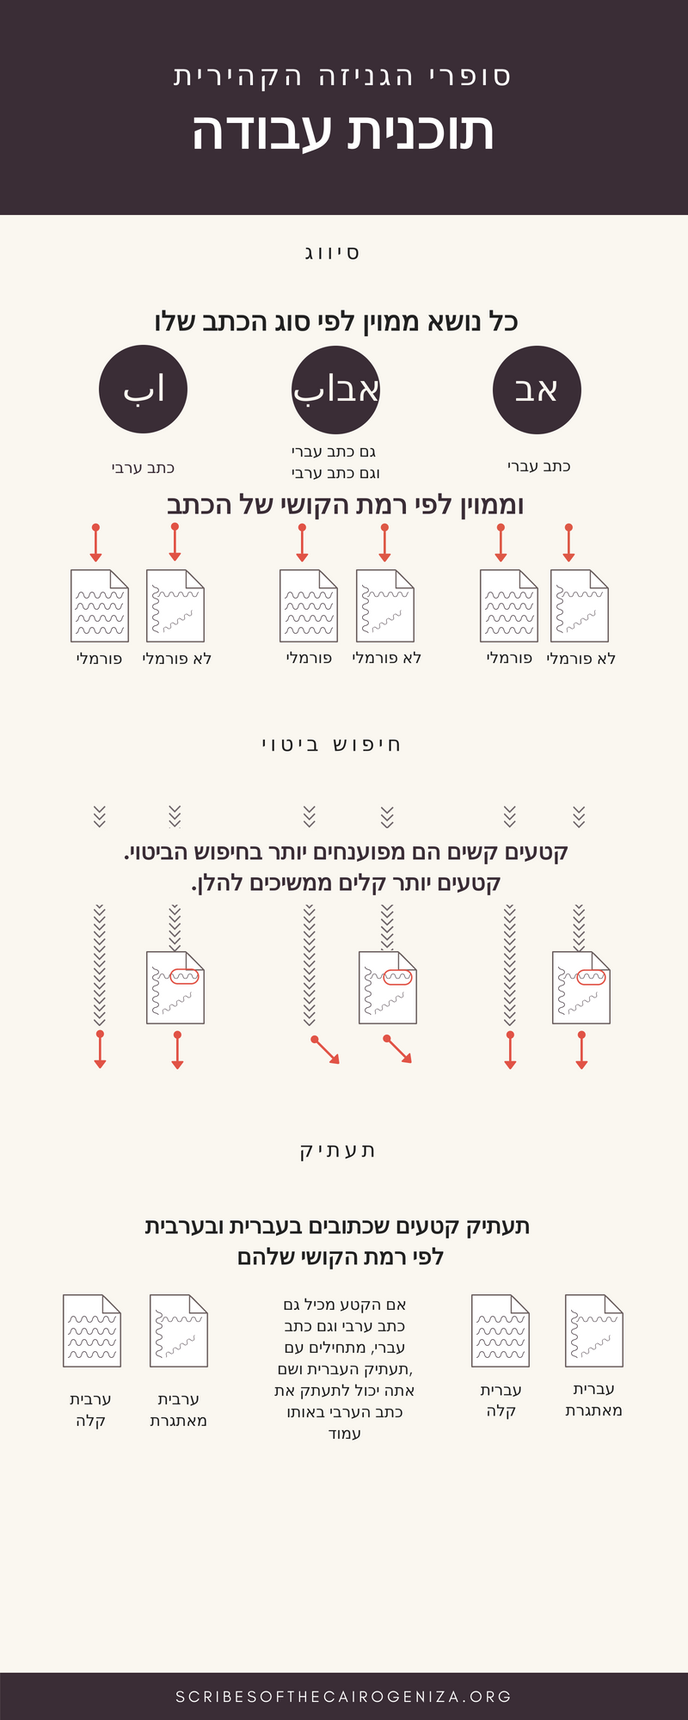
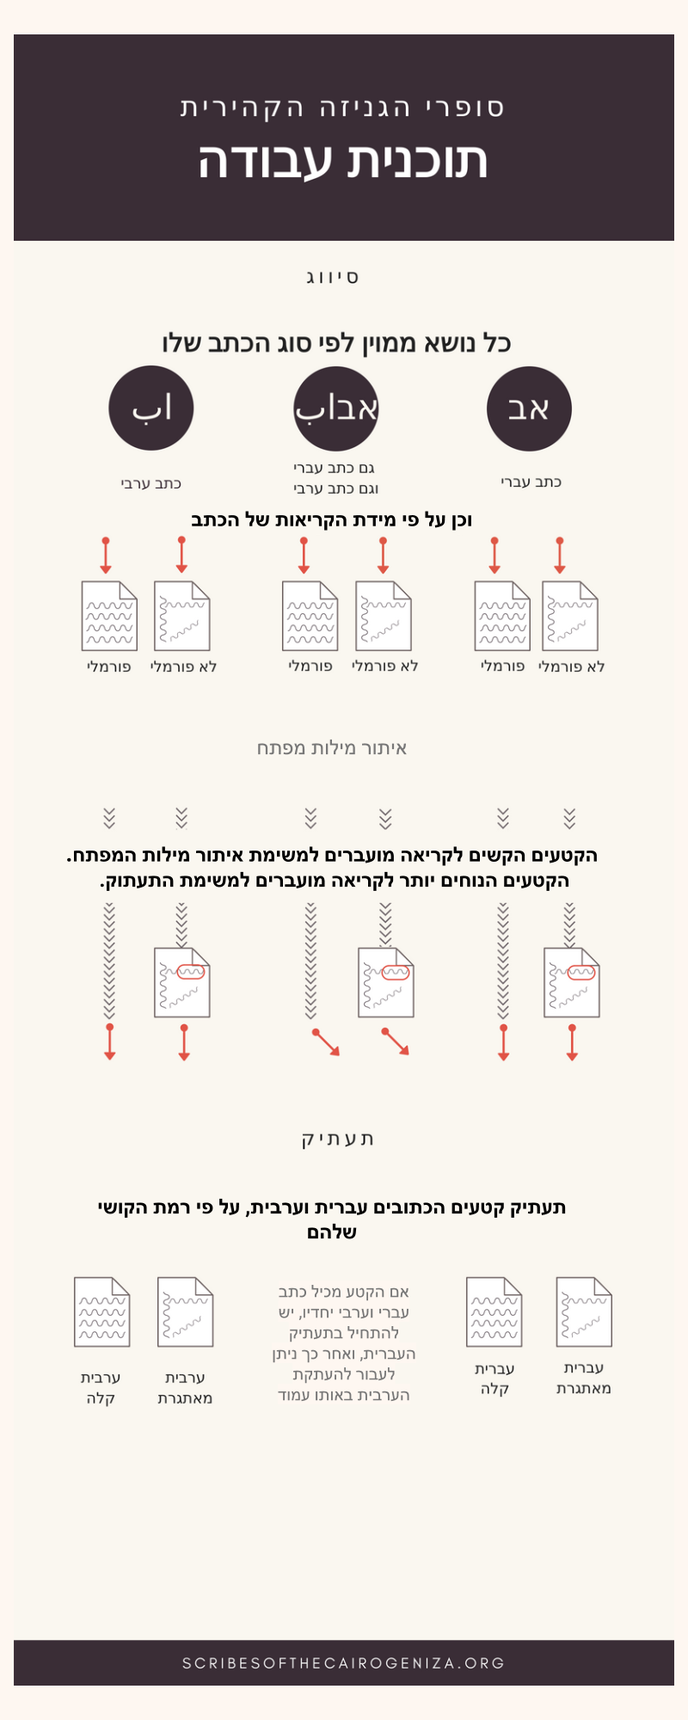
Final Hebrew Translations (#161)
* Update Hebrew Translations

* Replace Hebrew Workflow Image

* Add Bodleian as an Image Partner

* Fix Paragraph in Paragraph structure

diff --git a/src/locales/he.js b/src/locales/he.js
@@ -95,8 +95,8 @@ export default {
     scriptTypes: 'סוגי כתב עברי',
     yourSheet: 'מאגר סוגי הכתב שלך',
     types: {
-      OrientalNE: '(מזרחי (צפון-מזרח ',
-      OrientalSW: '(מזרחי (מערב-דרום המזרח ',
+      OrientalNE: 'מזרחי (צפון-מזרח)',
+      OrientalSW: 'מזרחי (מערב-דרום)',
       Maghrebi: 'מגרבי',
       Sephardi: 'ספרדי',
       Yemenite: 'תימני',
@@ -162,28 +162,26 @@ export default {
   bios: {
     Laurie: {
       name: 'Laurie Allen',
-      description: '.לורי אלן היא מנהלת הדיגיטציה בספריות אוניברסיטת פנסילבניה'
+      description: 'לורי אלן היא מנהלת הדיגיטציה בספריות אוניברסיטת פנסילבניה.'
     },
     Samantha: {
       name: 'Samantha Blickhan',
-      description: '.סמנתה בליקהן היא פוסט דוקטורנטית בזוניברס, החוקרת פרקטיקות מיטביות לתעתוק המונים'
+      description: 'סמנתה בליקהן היא פוסט דוקטורנטית בזוניברס, המפתחת פרקטיקות מיטביות לתעתוק המונים.'
     },
     Laura: {
       name: 'Laura Newman Eckstein',
-      description: '.לורה ניומן-אקשטיין היא רכזת מדעי היהדות הדיגיטליים בספריות אוניברסיטת פנסילבניה'
+      description: 'לורה ניומן-אקשטיין שימשה כרכזת מדעי היהדות הדיגיטליים בספריות אוניברסיטת פנסילבניה (2016-2018).'
     },
     Doug: {
       name: 'Doug Emery',
       description: `
-        דאג אמרי הוא מתכנת תוכן דיגיטלי במרכז קיסלק לאוספים מיוחדים, ספרים נדירים וכתבי יד באוניברסיטת
-        .פנסילבניה
+        דאג אמרי הוא מתכנת תוכן דיגיטלי במרכז קיסלק לאוספים מיוחדים, ספרים נדירים וכתבי יד באוניברסיטת פנסילבניה.
       `
     },
     Mitch: {
       name: 'Mitch Fraas',
       description: `
-        מיץ' פראס הוא אוצר האוספים המיוחדים במרכז קיסלק לאוספים מיוחדים, ספרים נדירים וכתבי יד
-        .באוניברסיטת פנסילבניה
+        מיץ' פראס הוא אוצר האוספים המיוחדים במרכז קיסלק לאוספים מיוחדים, ספרים נדירים וכתבי יד באוניברסיטת פנסילבניה.
       `
     },
     WillGranger: {
@@ -195,29 +193,25 @@ export default {
     Arthur: {
       name: 'Arthur Kiron',
       description: `
-        ארתור קירון הוא אוצר אוספי היודאיקה ע"ש שוטנשטיין-יסלזון, ראש הספריה למחקרי יהדות מתקדמים
-        .במרכז הרברט ד. כץ בפנסילבניה, ומרצה להיסטוריה באוניברסיטת פנסילבניה
+        ארתור קירון הוא אוצר אוספי היודאיקה ע"ש שוטנשטיין-יסלזון, ראש הספריה למחקרי יהדות מתקדמים במרכז הרברט ד. כץ בפנסילבניה, ומרצה להיסטוריה באוניברסיטת פנסילבניה.
       `
     },
     Moshe: {
       name: 'Moshe Lavee',
       description: `
-        משה לביא עומד בראש מעבדת אליהו לשיתוף המונים במדעי היהדות, ראש התכנית למדעי הרוח
-        הדיגיטליים וממנהלי המרכז לחקר הגניזה באוניברסיטת חיפה. מרצה לתלמוד ומדרש במחלקה לתולדות
-        .ישראל באוניברסיטת חיפה, ומתמחה בחקר המדרש בגניזה
+        משה לביא עומד בראש מעבדת אליהו לשיתוף המונים במדעי היהדות, ראש התכנית למדעי הרוח הדיגיטליים וממנהלי המרכז לחקר הגניזה באוניברסיטת חיפה. מרצה לתלמוד ומדרש בחוג לתולדות ישראל, מחשבת ישראל ומקרא באוניברסיטת חיפה, ומתמחה בחקר המדרש בגניזה.
       `
     },
     Eve: {
       name: 'Eve Krakowski',
       description: `
-        .איב קרקובסקי היא מרצה ללימודי המזרח הקרוב באוניברסטת פרינסטון, מתמחה בגניזה הדוקומנטרית
+        איב קרקובסקי היא מרצה ללימודי המזרח הקרוב באוניברסטת פרינסטון, מתמחה בגניזה הדוקומנטרית.
       `
     },
     William: {
       name: 'William Noel',
       description: `
-        ויליאם נואל הוא ראש מרכז קיסלק לאוספים מיוחדים, ספרים נדירים וכתבי יד, וראש מכון שונברג לחקר
-        .כתבי יד באוניברסיטת פנסילבניה
+        ויליאם נואל הוא ראש מרכז קיסלק לאוספים מיוחדים, ספרים נדירים וכתבי יד, וראש מכון שונברג לחקר כתבי יד באוניברסיטת פנסילבניה.
       `
     },
     Shaun: {
@@ -229,8 +223,7 @@ export default {
     Vered: {
       name: 'Vered Raziel Kretzmer',
       description: `
-        ורד רזיאל קרצ'מר אחראית על פרויקט שיתוף המונים בגניזה במעבדת אליהו לשיתוף המונים במדעי
-        .היהדות באוניברסיטת חיפה, ומתמחה בחקר התפילה בגניזת קהיר
+        ורד רזיאל קרצ'מר היא פוסט-דוקטורנטית במעבדת אליהו לשיתוף המונים במדעי היהדות באוניברסיטת חיפה, אחראית על פרויקט שיתוף המונים בגניזת קהיר, ומתמחה בחקר התפילה מן הגניזה.
       `
     },
     Raha: {
@@ -243,28 +236,22 @@ export default {
     Becky: {
       name: 'Becky Rother',
       description: `
-        בקי רות'ר היא המעצבת של זוניברס, עובדת בשיתוף פעולה עם צוות המחקר והמפתחים של זוניברס
-        .ליצירת חוויית תעתוק מיטבית
+        בקי רות'ר היא המעצבת של זוניברס, מעצבת את סביבת העבודה באתר ליצירת חוויית תעתוק מיטבית.
       `
     },
     Marina: {
       name: 'Marina Rustow',
       description: `
-        מרינה רוסטו עומדת בראש קתדרת כדורי א. זילכה לתרבות יהודית במזרח הקרוב, פרופסור לחקר
-        .ההיסטוריה של המזרח הקרוב באוניברסיטת פרינסטון ומתמחה בגניזה הדוקומנטרית
+        מרינה רוסטוב עומדת בראש קתדרת כדורי א. זילכה לתרבות יהודית במזרח הקרוב, פרופסור לחקר ההיסטוריה של המזרח הקרוב באוניברסיטת פרינסטון ומתמחה בגניזה הדוקומנטרית.
       `
     }
   },
   specialThanks: {
     main: `
-      ,תודתנו שלוחה גם לד"ר ג'ין באואר, אליזבת' בייטס, האל בלקברן, טייב שריף, ג'סיקה דאמר, טימות'י דנגייט
-      סקוט אנדרל, ד"ר ג'סיקה גולדברג, רבקה היל, אמיי האצ'ינס, ד"ר דוד קרמר, ד"ר ניטה קרוונס, קייט לינץ', גייטרי
-      ב. אורוגנטי, ד"ר בן אות'וויט, ד"ר קרייג פרי, בסאן רדוואן, ד"ר סיני רוסינק, ד"ר ג'ודית אולשובי-שלאנגר, ג'סמין
-      שינוהרה, ד"ר סמדר שטהל, אמה סטנפורד וד"ר עודד זינגר, על תרומתם לפרויקט.
+      תודתנו שלוחה לד"ר ג'ין באואר, אליזבת' בייטס, האל בלקברן, טייב שריף, ג'סיקה דאמר, טימות'י דנגייט, סקוט אנדרל, ד"ר ג'סיקה גולדברג, רבקה היל, אמיי האצ'ינס, ד"ר דוד קרמר, ד"ר ניטה קרוונס, קייט לינץ', גייטרי ב. אורוגנטי, ד"ר בן אות'וויט, ד"ר קרייג פרי, בסאן רדוואן, ד"ר סיני רוסינק, ד"ר ג'ודית אולשובי-שלאנגר, ג'סמין שינוהרה, ד"ר סמדר שטהל, אמה סטנפורד, עינת טמיר וד"ר עודד זינגר על תרומתם לפרויקט.
     `,
     additional: `
-      תודה גם למוסדות הבאים שתרמו סריקות נוספות לפרויקט: ספריית המדינה בברלין, ספריות הבודליאנה
-      .באוניברסיטת אוקספורד, הספריה הבריטית בלונדון, הספריה הלאומית בירושלים
+      תודה למוסדות הבאים שתרמו סריקות נוספות לפרויקט: ספריית המדינה בברלין, הספריה הבריטית בלונדון, הספריה הלאומית בירושלים
     `
   },
   textModifiers: {
@@ -339,7 +326,7 @@ export default {
     specialThanks: 'תודות',
     team: 'הצוות',
     aboutGeniza: 'על הגניזה',
-    aboutResearch: 'המוסדות המשתתפים במחקר',
+    aboutResearch: 'שותפי המחקר',
     aboutScribes: 'על סופרי הגניזה הקהירית',
     getStarted: 'התחילו כאן'
   },

diff --git a/src/components/about/content-provenance-he.jsx b/src/components/about/content-provenance-he.jsx
@@ -13,10 +13,10 @@ function Content() {
         <div className="right-column">
           <img alt="Penn" src={ImgPenn} />
         </div>
-        <h3>ספריית מקור: Penn</h3>
+        <h3>אוניברסיטת פנסילבניה (Penn)</h3>
         <p className="text">
           אוסף ספריות אוניברסיטת פנסילבניה (Penn), המונה יותר מ-600 קטעי גניזה, מבוסס על שני מקורות. רובו מגיע מספריית דרופסי קולג', המוסד האקדמי הראשון בעולם שהוסמך להעניק תואר דוקטור במדעי היהדות. על פי רישומי הספרייה וכן על פי תיאורי קטלוג קטעי הגניזה של פילדלפיה שהוכן בידי בן-ציון הלפר בשנת 1924, נבנה האוסף מתרומותיהם של סיירוס (פנחס) אדלר, דוד וו. עמרם, הרברט פרידנולד, אפרים לדרר ומאיר זולצברגר, וכן מפריטים שנרכשו מאלמנתו של קמדן מ' קוברן, שנפטר בשנת 1920.
-הלפר סיווג את קטעי הגניזה לשבעה תחומים: מקרא, מדרש ותלמוד, ליטורגיה, שירת חול, מסמכים ומכתבים, פילוסופיה וקבלה, ושונות. בשנת 1986 שינה דרופסי קולג' את יעודו והפך למוסד מחקר ללימודים מתקדמים הקרוי מכון אננברג (ARI), ובשנת 1993 התמזג עם אוניברסיטת פנסליבניה. מייד לאחר ייסודו של מכון אננברג, בספטמבר 1986, נתרמה למכון כמות קטנה של קטעי גניזה נוספים על ידי ג'ק לונצר, בשמו של הוועד המנהל של אוסף וולמדונה. בשנת 1994 עבר אוסף דרופסי לאחריות ספריות פנסילבניה והצטרף לאוסף קטעי הגניזה הקטן שברשותה, השמור בספריית הספרים הנדירים וכתבי היד- ידועה כיום כמרכז קיסלק לאוספים מיוחדים, ספרים נדירים וכתבי יד.
+הלפר סיווג את קטעי הגניזה לשבעה תחומים: מקרא, מדרש ותלמוד, ליטורגיה, שירת חול, מסמכים ומכתבים, פילוסופיה וקבלה, ושונות. בשנת 1986 שינה דרופסי קולג' את יעודו והפך למוסד מחקר ללימודים מתקדמים הקרוי מכון אננברג (ARI), ובשנת 1993 התמזג עם אוניברסיטת פנסליבניה. מייד לאחר ייסודו של מכון אננברג, בספטמבר 1986, נתרמה למכון כמות קטנה של קטעי גניזה נוספים על ידי ג'ק לונצר, בשמו של הוועד המנהל של אוסף וולמדונה. בשנת 1994 עבר אוסף דרופסי לאחריות ספריות פנסילבניה והצטרף לאוסף קטעי הגניזה הקטן שברשותה, השמור בספריית הספרים הנדירים וכתבי היד- ידועה כיום כמרכז קיסלק לאוספים מיוחדים, ספרים נדירים וכתבי יד למידע נוסף בקרו באתר.
           <a href="http://openn.library.upenn.edu/html/genizah_contents.html" rel="noopener noreferrer" target="_blank">http://openn.library.upenn.edu/html/genizah_contents.html</a></p>
       </div>
 
@@ -24,7 +24,7 @@ function Content() {
         <div className="right-column">
           <img alt="JTS" src={ImgJTS} />
         </div>
-        <h3>ספריית מקור: בית המדרש לרבנים באמריקה (JTS)</h3>
+        <h3>בית המדרש לרבנים באמריקה (JTS)</h3>
         <p className="text">
           אוסף ספריית בית המדרש לרבנים באמריקה,המונה כ- 43,000 דפים מגניזת קהיר, נבנה בעיקר מאוסף אלקן (אלחנן) נתן אדלר שנרכש בשנת 1923. בתיאורו את אוסף כתבי היד העבריים שברשותו ציין אדלר שקנה את כתבי היד במסעותיו לקהיר במהלך השנים 1888-1901. קטעים נוספים נרכשו על ידי הספרייה לאחר מותו של אדלר, בשנת 1946. סריקות דיגיטליות של האוסף הופקו בידי ארדון בר חמא ודוויט פרימיאנו, במימונם של ג'ורג' בלומנטל והקרן הלאומית למדעי הרוח (NEH). האוסף הושאל זמנית לאוניברסיטת פרינסטון, בזמן שספרייה חדשה הולכת ונבנית בסמינר בניו יורק.
         </p>
@@ -34,7 +34,7 @@ function Content() {
         <div className="right-column">
           <img alt="Cambridge" src={ImgCambridge} />
         </div>
-        <h3>ספריית מקור: קיימברידג'</h3>
+        <h3>'קיימברידג</h3>
         <p className="text">
           בשנים 1896-1897 נסע ד"ר סלומון שכטר מקיימברידג' לפסטאט כדי לבחון את הגניזה, במימונו של  צ'ארלס טיילור מסט. ג'ון קולג'. שכטר קיבל את רשותה של הקהילה היהודית במצרים לקחת משם כל מה שימצא חן בעיניו ('הכל מצא חן בעיני', אמר מאוחר יותר), והוא הביא עמו לקיימברידג' 193,000 קטעי גניזה, המרכיבים את אוסף טיילור-שכטר (T-S Collection).
         </p>
@@ -42,16 +42,19 @@ function Content() {
 לצד אוסף טיילור-שכטר, שוכן כיום בקיימברידג' גם אוסף מוצרי, המונה 7000 קטעי גניזה. קטעים אלה, שנאספו על ידי איש העסקים הקהירי המצליח ג'ק מוצרי בעשור הראשון של המאה העשרים, נועדו להישמר במצרים כחלק ממורשתה התרבותית של הקהילה היהודית המקומית. אך בעקבות מותו ללא עת של מוצרי בשנת 1934 עזבה המשפחה את מצרים, והאוסף הקרוי על שמו נעלם מעיני הציבור עד שנות השבעים, אז צולם למיקרופילם על ידי צוות של הספרייה הלאומית בירושלים. בעקבות סיכומים חדשים עם בני משפחת מוצרי, הושאל האוסף  בשנת 2006 לקיימברידג' למשך 20 שנה. במהלך תקופה זו יעבור  האוסף שימור, דיגיטציה וקיטלוג מפורט.
         </p>
         <p className="text">
-כיום, זמינים ברשת יותר מ-18,000 קטעי גניזה מאוספי טיילור-שכטר, CUL Or. ומוצרי, ביניהם מסמכים רבים (מכתבים ומסמכים משפטיים) וקטעי ליטורגיה (פרי שיתוף הפעולה עם מפעל התפילה באוניברסיטת בן-גוריון). קטעים נוספים יועלו לרשת באופן סדיר, עד שיהיה כולו זמין לציבור.
+כיום, זמינים ברשת יותר מ-18,000 קטעי גניזה מאוספי טיילור-שכטר, CUL Or.
+ומוצרי, ביניהם מסמכים רבים (מכתבים ומסמכים משפטיים) וקטעי ליטורגיה (פרי שיתוף הפעולה עם מפעל התפילה באוניברסיטת בן-גוריון). קטעים נוספים יועלו לרשת באופן סדיר, עד שיהיה כולו זמין לציבור. למידע נוסף בקרו באתר
         </p>
-        <p className="text"><a href="https://cudl.lib.cam.ac.uk/collections/genizah/1" rel="noopener noreferrer" target="_blank">https://cudl.lib.cam.ac.uk/collections/genizah/1</a></p>
+        <p className="text">
+          <a href="https://cudl.lib.cam.ac.uk/collections/genizah/1" rel="noopener noreferrer" target="_blank">https://cudl.lib.cam.ac.uk/collections/genizah/1</a>
+        </p>
       </div>
 
       <div className="item">
         <div className="right-column">
           <img alt="Manchester" src={ImgManchester} />
         </div>
-        <h3>ספריית מקור: מנצ'סטר</h3>
+        <h3>מנצ'סטר</h3>
         <p className="text">
           ברשות הספרייה באוניברסיטת מנצ'סטר אוסף של כ-15,000 קטעי גניזה מגניזת בית הכנסת בן-עזרא שבקהיר העתיקה, שנרכשו מידי ד"ר משה גסטר בשנת 1954. רובם של קטעי הגניזה בעברית ובערבית-יהודית, כ90% מהם כתובים על נייר והשאר על קלף, ורוב האוסף מורכב מקרעים קטנים. קטעי הגניזה מתוארכים למאות 10-19 לספירה וכוללים כתבים דתיים וספרותיים, מסמכים, מכתבים, ענייני לשון, פילוסופיה, רפואה, אסטרולוגיה  ואסטרונומיה. למידע נוסף על אוסף הגניזה של אוניברסיטת מנצ'סטר בקרו באתר
           <a href="http://www.rylandsgenizah.org" rel="noopener noreferrer" target="_blank">http://www.rylandsgenizah.org</a>

diff --git a/src/components/about/content-research-he.jsx b/src/components/about/content-research-he.jsx
@@ -17,18 +17,19 @@ function Content() {
         <p className="text">
           ספריות אוניברסיטת פנסילבניה (Penn) משרתות את הסגל האקדמי והסטודנטים של 12 בתי הספר של אוניברסיטת פנסילבניה. באוספי הספריות שמורים יותר משבעה מיליון ספרים, מאה אלף כתבי עת, כשני מיליון תמונות דיגיטליות, ואוספים נדירים וייחודיים המתעדים את המכלול האינטלקטואלי והתרבותי של תרבויות עתיקות וחדשות.
 שיתופי פעולה בין-ספרייתיים מאפשרים לקהילת האוניברסיטה גישה אל ספריות מרכז המחקר (כ-5 מיליון פריטים), ולאוספי יתר האוניברסיטאות המובילות בארצות הברית (יותר מ-70 מיליון כותרים), כמו גם גישה אלקטרונית לכ-2 מיליון כותרים נוספים הפתוחים לציבור הרחב באמצעות HathiTrust.
-בימים אלה מרחיבות הספריות את פועלן בתחום פיתוח טכנולוגיות חדשות לכריית והפצת מידע, והן נחשבות לפורצות דרך בתחום עיצוב הספרייה הדיגיטלית. למידע נוסף על ספריות אוניברסיטת Penn  בקרו באתר  <a href="http://www.library.upenn.edu" rel="noopener noreferrer" target="_blank">http://www.library.upenn.edu.</a></p>
+בימים אלה מרחיבות הספריות את פועלן בתחום פיתוח טכנולוגיות חדשות לכריית והפצת מידע, והן נחשבות לפורצות דרך בתחום עיצוב הספרייה הדיגיטלית. למידע נוסף על ספריות אוניברסיטת Penn  בקרו באתר.  <a href="http://www.library.upenn.edu" rel="noopener noreferrer" target="_blank">http://www.library.upenn.edu</a></p>
       </div>
 
-      <div className="item">
+      <div className="item princeton-hebrew">
         <div className="right-column">
           <img alt="Princeton" src={ImgPrinceton} />
         </div>
         <h3>מעבדת הגניזה - פרינסטון</h3>
         <p className="text">
           מעבדת הגניזה בפרינסטון היא מרחב עבודה שיתופי המוקדש להנגשת המסמכים התיעודיים מן הגניזה הקהירית - מכתבים, מסמכים משפטיים, רשימות, דו"חות ועוד - עבור חוקרים ועבור הציבור הרחב. צוותי העבודה שלנו כוללים סטודנטים, פוסט-דוקטורנטים, מרצים וחוקרים מרחבי העולם הפועלים לקיטלוגם, העתקתם ותרגומם של מסמכי הגניזה. אנו מארגנים סדנאות, כנסים ופגישות בנושאי תעודות היסטוריות במרחב האירופי-אסייתי, מדעי הרוח הדיגיטליים ויישום מעבדות מחקר במדעי הרוח וההיסטוריה הימי-ביניימית של המזרח התיכון. מאגר המידע האינטרנטי המרכזי שלנו הוא פרויקט הגניזה של פרינסטון.
-Princeton Geniza Project) <a href="http://geniza.princeton.edu/newpgp/princetongenizaproject" rel="noopener noreferrer" target="_blank">http://geniza.princeton.edu/newpgp/princetongenizaproject</a>
+          <span> (Princeton Geniza Project)</span>
         </p>
+        <a href="http://geniza.princeton.edu/newpgp/princetongenizaproject" rel="noopener noreferrer" target="_blank">http://geniza.princeton.edu/newpgp/princetongenizaproject</a>
       </div>
 
       <div className="item">
@@ -44,7 +45,7 @@ Princeton Geniza Project) <a href="http://geniza.princeton.edu/newpgp/princetong
 מעבדת אליהו נוסדה לצד המרכז לחקר בין תחומי של הגניזה הקהירית, ועל סמך האתוס שקבע לו מרכז זה: העצמת המחקר הבין תחומי של הגניזה הקהירית, והפיכת הגניזה והידע הקשור בה למשאב תרבותי זמין לציבורים נרחבים: לחוקרים העוסקים בתחומים נושקים, לתלמידי מערכת החינוך, ולציבור הרחב בכללו.
 למידע נוסף בקרו באתר שלנו:
 
-          <a href="http://genizah.haifa.ac.il/index.php?lang=en" rel="noopener noreferrer" target="_blank">http://genizah.haifa.ac.il/index.php?lang=en</a></p>
+          <a href="http://elijahlab.haifa.ac.il/index.php/he/" rel="noopener noreferrer" target="_blank">http://elijahlab.haifa.ac.il/index.php/he/</a></p>
       </div>
 
       <div className="item">
@@ -53,7 +54,6 @@ Princeton Geniza Project) <a href="http://geniza.princeton.edu/newpgp/princetong
         </div>
         <h3>The Zooniverse</h3>
         <p className="text">
-          זוניברס
           זוניברס  (Zooniverse) הוא פלטפורמת מחקר ההמונים הגדולה והפופולרית ביותר בעולם. בשנת
           2016 זכה זוניברס במענק מנהיגות לאומי למימון פרויקט קידום ספריות וארכיונים בעזרת שיתוף
           המונים, שיתוף פעולה בין צוות זוניברס בפלנטריום אדלר שבשיקגו ובין הצוות שבאוניברסיטת

diff --git a/src/components/about/content-geniza-he.jsx b/src/components/about/content-geniza-he.jsx
@@ -5,7 +5,7 @@ function Content() {
     <div className="content">
       <p className="text">כתבי היד הבלויים השל הגניזה הקהירית הם אחד ממקורות המידע העשירים והמרכזיים ביותר של ההיסטוריה של הים התיכון, ארצות האיסלאם והתפוצה היהודית בימי הביניים, ומן המקורות החשובים לשחזור הספרייה היהודית משלהי העת העתיקה ועד לימי הביניים המאוחרים. אוצר זה, שטרם נחקר עד תומו, מכיל כתבי קודש וחול זה לצד זה, וביניהם כתבי יד עתיקים של ספרי תורה, משנה, תלמוד, מדרשים, פיוט ותפילה, מאגיה, מדע ופילוסופיה, פרשנות והגות, ומסמכים כגון מכתבים, חוזים, מילונים, רשימות ומרשמים רפואיים. כתבי יד אלה, שרובם מתוארכים למאות 10-13 לספירה, נשמרו במשך מאות שנים בעליית הגג של בית הכנסת בן-עזרא בפסטאט, כיום קהיר העתיקה. כתבי הגניזה מעניקים לחוקריהם הבנה חדשה ומעמיקה של ההיסטוריה, התרבות, הכלכלה וחיי הרוח של הקהילה היהודית בימי הביניים. בעזרת המסמכים ניתן לשחזר את חיי היומיום של היהודים, יחסיהם בינם ובין עצמם ויחסיהם עם שכניהם המוסלמים והנוצרים, ולדלות מידע הנוגע להקשר הרחב יותר של קהיר בתקופה הפאטמית והאיובית. החיבורים הלא מוכרים שנמצאו בגניזה והגירסאות העתיקות של חיבורים מוכרים חושפים בפנינו את עולם הידע והלימוד, בית המדרש ובית הכנסת והספרייה היהודית של ימי הביניים בכלל, ושל התרבות הערבית-יהודית העשירה בפרט. </p>
       <p className="text">תודות לעבודתם המסורה של חוקרים וספרנים במשך מאה ועשרים השנים האחרונות קוטלגו ונחקרו רבים מקטעי הגניזה, אך כמותם העצומה, 350,000 קטעים, ומצבם הבלוי והקרוע, הקשו על סיום המשימה. בשנים האחרונות זכינו לדיגיטציה כמעט מלאה של אוספי הגניזה. אנו מבקשים עתה את עזרתכם ביצירת תעתיקים של קטעי הגניזה, לשם יצירת זמינות טקסטואלית מלאה של כל הגניזה הקהירית. אין צורך בהיכרות מוקדמת, כל אחד ואחת יכולים לתרום לקידום הפרויקט. אנא עזרו לנו לגלות ולפענח את אוצר הכתבים של הגניזה הקהירית.</p>
-      <p className="text">'גניזה' היא מקום איחסונם של ספרי תורה וכתבי קודש אחרים שניזוקו, שהמסורת היהודית אוסרת על השלכתם. מקובל לקבור את כתבי הקודש הקרועים בבית הקברות, אך מסיבות שאינן ידועות בחרו אנשי הקהילה בפסטאט להניח אותם בחדר גדול במתחם בית הכנסת במקום לקברם, שם הצטברו במשך קרוב לאלף שנים. בסוף המאה ה-19, בזמן שיפוצים בבית הכנסת, הועברו הכתבים ממקומם והחלו להתגלגל לידיהם של סוחרי עתיקות ואספנים. כיום מפוזרים כתבי הגניזה בספריות רבות ברחבי העולם. למידע נוסף על האוספים אליהם שייכים קטעי הגניזה שתסייעו להנגשתם בפרוייקט לחצו כאן <a href="#provenance">[link]</a> או גללו מטה.</p>
+      <p className="text">'גניזה' היא מקום איחסונם של ספרי תורה וכתבי קודש אחרים שניזוקו, שהמסורת היהודית אוסרת על השלכתם. מקובל לקבור את כתבי הקודש הקרועים בבית הקברות, אך מסיבות שאינן ידועות בחרו אנשי הקהילה בפסטאט להניח אותם בחדר גדול במתחם בית הכנסת במקום לקברם, שם הצטברו במשך קרוב לאלף שנים. בסוף המאה ה-19, בזמן שיפוצים בבית הכנסת, הועברו הכתבים ממקומם והחלו להתגלגל לידיהם של סוחרי עתיקות ואספנים. כיום מפוזרים כתבי הגניזה בספריות רבות ברחבי העולם. למידע נוסף על האוספים אליהם שייכים קטעי הגניזה שתסייעו להנגשתם בפרוייקט לחצו <a href="#provenance">כאן</a> או גללו מטה.</p>
     </div>
   );
 };

diff --git a/src/components/about/content-research-en.jsx b/src/components/about/content-research-en.jsx
@@ -33,7 +33,9 @@ function Content() {
         <h3>e-Lijah Lab and the Centre for Interdisciplinary Research of the Cairo Genizah at the University of Haifa</h3>
         <p className="text">e-Lijah (eLearning in Jewish studies at Haifa) is a Digital Humanities lab aimed at developing and implementing citizen science and crowdsourcing projects in the Humanities. The lab covers along chronological span from Antiquity to the modern era and a variety of medias and disciplines including historical, spatial, textual, literary and visual sources.</p>
         <p className="text">The lab follows a triple elements model for citizen science. Each project in the lab is committed to the development of a web platform, the establishing of educational or other public activity for assuring a vital community of contributors and exercising research based on the fruits of public contributions.</p>
-        <p className="text">The Lab was founded as an extension of the Haifa Genizah Research Center, devoted to multidisciplinary research in field of the Genizah, and to the wider application of Genizah Research, namely outreach for new circles of Genizah users : scholars in adjacent fields, various strands of education and the wider public as a whole. Visit our website: <a href="http://genizah.haifa.ac.il/index.php?lang=en" rel="noopener noreferrer" target="_blank">http://genizah.haifa.ac.il/index.php?lang=en</a></p>
+        <p className="text">The Lab was founded as an extension of the Haifa Genizah Research Center, devoted to multidisciplinary research in field of the Genizah, and to the wider application of Genizah Research, namely outreach for new circles of Genizah users : scholars in adjacent fields, various strands of education and the wider public as a whole. Visit our website:
+          <a href="http://elijahlab.haifa.ac.il/index.php/en/" rel="noopener noreferrer" target="_blank">http://elijahlab.haifa.ac.il/index.php/en/</a>
+        </p>
       </div>
 
       <div className="item">

diff --git a/src/locales/en.js b/src/locales/en.js
@@ -288,12 +288,11 @@ export default {
       Yonatan Gutenmacher, Rebecca Hill, Amey Hutchins, Dr. David Kraemer, Dr. Nita Krevans,
       Kate Lynch, Gayatri B. Oruganti, Dr. Ben Outhwaite, Dr. Craig Perry, Besan Radwan,
       Dr. Sinai Rusinek, Dr. Judith Olszowy-Schlanger, Jasmine Shinohara, Dr. Smadar Shtuhl,
-      Emma Stanford, and Dr. Oded Zinger for their contributions.
+      Emma Stanford, Einat Tamir and Dr. Oded Zinger for their contributions.
     `,
     additional: `
       Additionally, thank you to the following institutions for providing supplementary
-      images for this project: The Berlin State Library, The Bodleian Libraries at
-      the University of Oxford, The British Library, and The National Library of Israel.
+      images for this project: The Berlin State Library, The Bodleian Libraries at the University of Oxford, The British Library, and The National Library of Israel.
     `
   },
   textModifiers: {
@@ -360,7 +359,7 @@ export default {
     specialThanks: 'Special Thanks',
     team: 'The team',
     aboutGeniza: 'About the Geniza',
-    aboutResearch: 'About the Research Partners',
+    aboutResearch: 'Research Partners',
     aboutScribes: 'About Scribes of the Cairo Geniza',
     getStarted: 'Get Started'
   },
